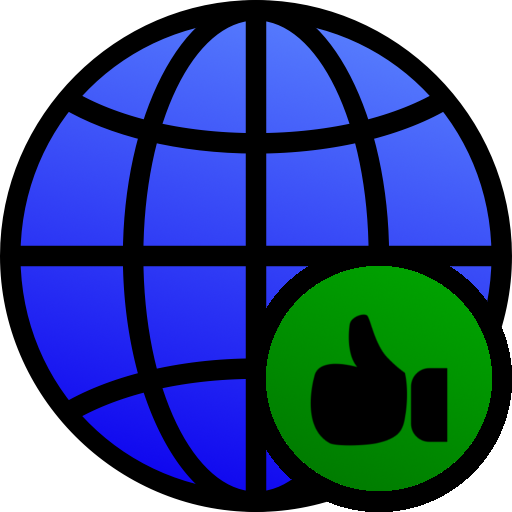
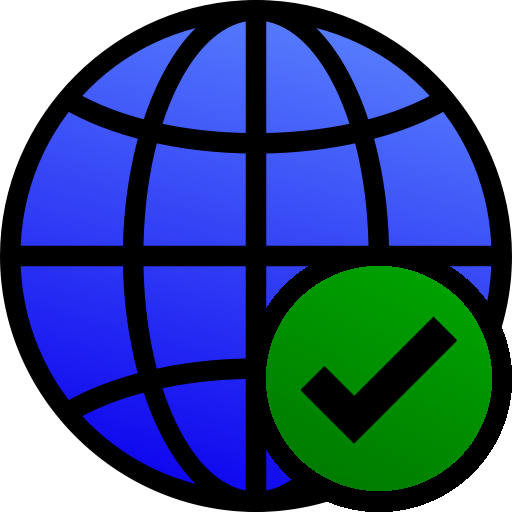
Pictures fixed for plattform and refactoring

Changed region(s): [[0.5938, 0.5938, 0.9062, 0.875]]

diff --git a/src/main/webapp/resources/js/check.js b/src/main/webapp/resources/js/check.js
@@ -29,8 +29,6 @@ function executeEvent(event) {
             break;
         case 'TestFinished':
             setTestResult(event);
-        case 'TestFinishedWithError':
-            setTestResult(event);
             break;
         default:
             break;
@@ -107,5 +105,13 @@ function setResultMaliciousImage(element, result) {
 
 function setResultMalicious(result) {
     $('#heading-log').css('background-color', '#f5f5f5');
-    setResultMaliciousImage($('test-state'), result);
+    if (result.valueOf() == "CLEAN") {
+        $('#test-state').attr('src', 'img/clean.png');
+    } else if (result.valueOf() == "WARNING")  {
+        $('#test-state').attr('src', 'img/warning.png');
+    }else if (result.valueOf() == "MALICIOUS")  {
+        $('#test-state').attr('src', 'img/malicious.png');
+    }else {
+        $('#test-state').attr('src', 'img/undefined.png');
+    }
 }
